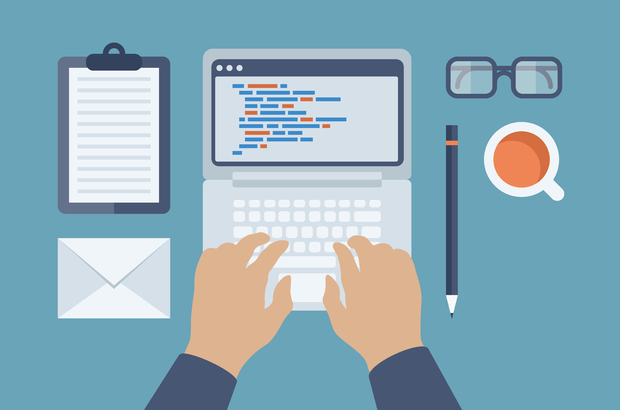
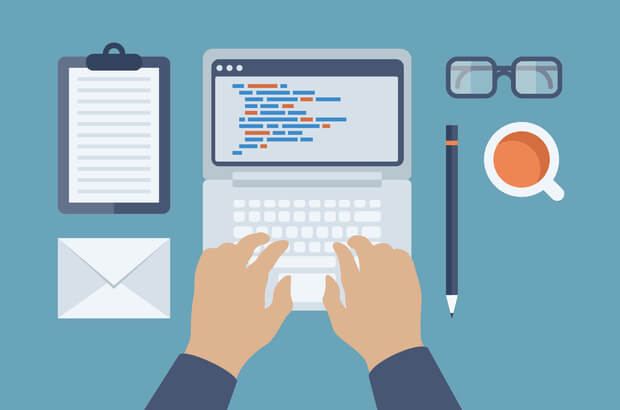
compress img and add angular to optimize code

diff --git a/index.html b/index.html
@@ -1,14 +1,17 @@
 <!DOCTYPE html>
-<html lang="en">
+<html lang="en" ng-app="colaboradores">
 <head>
 	<meta name="viewport" content="initial-scale = 1.0,maximum-scale = 1.0" />
 	<meta charset="UTF-8">
+	 <link rel="icon" href="img/favicon.png" type="image/gif" sizes="16x16"> 
 	<!-- HTML5 shim and Respond.js for IE8 support of HTML5 elements and media queries -->
 	<!-- WARNING: Respond.js doesn't work if you view the page via file:// -->
 	<!--[if lt IE 9]>
 	<script src="https://oss.maxcdn.com/html5shiv/3.7.2/html5shiv.min.js"></script>
 	<script src="https://oss.maxcdn.com/respond/1.4.2/respond.min.js"></script>
 	<![endif]-->
+	<script src="lib/angular-1.5.5/angular.js"></script>
+	<script src="js/app.js"></script>
 	<title>Sim-Network</title>
 </head>
 <body>
@@ -208,87 +211,22 @@
 		</div><!-- /.container -->
 	</section>
 
-	<section class="team">
+	<section class="team" ng-controller="colaboradoresCtrl">
 		<div class="container">
 			<div class="row">
 				<div class="col-xs-12 title">
-					<h2>Colaboradores <span>//Nossos integrantes</span></h2>
+					<h2>{{app}} <span>//Nossos integrantes</span></h2>
 				</div>
 			</div>
 			<div class="row">
-				<div class="col-sm-6 col-md-3">
-				    <div class="thumbnail">
-				      <img src="img/Logo Sim Network 2.1.png" alt="...">
-				      <div class="caption">
-				        <h3 class="text-center">Thumbnail label</h3>
-				        <p class="text-center">Breve descrição sobre cada membro</p>
+				<div class="col-sm-6 col-md-3" ng-repeat="colaborador in colaboradores">
+					<div class="thumbnail">
+						<img ng-src="img/{{colaborador.imagem}}" title="foto de {{colaborador.nome}}" alt="foto de {{colaborador.nome}}" />
+						<div class="caption">
+							<h3 class="text-center">{{colaborador.nome}}</h3>
+							<p class="text-center">{{colaborador.descricao}}</p>
 						</div>
-				    </div>
-				</div>
-				<div class="col-sm-6 col-md-3">
-				    <div class="thumbnail">
-				      <img src="img/Logo Sim Network 2.1.png" alt="...">
-				      <div class="caption">
-				        <h3 class="text-center">Thumbnail label</h3>
-				        <p class="text-center">Breve descrição sobre cada membro</p>
-						</div>
-				    </div>
-				</div>
-				<div class="col-sm-6 col-md-3">
-				    <div class="thumbnail">
-				      <img src="img/Logo Sim Network 2.1.png" alt="...">
-				      <div class="caption">
-				        <h3 class="text-center">Thumbnail label</h3>
-				        <p class="text-center">Breve descrição sobre cada membro</p>
-						</div>
-				    </div>
-				</div>
-				<div class="col-sm-6 col-md-3">
-				    <div class="thumbnail">
-				      <img src="img/Logo Sim Network 2.1.png" alt="...">
-				      <div class="caption">
-				        <h3 class="text-center">Thumbnail label</h3>
-				        <p class="text-center">Breve descrição sobre cada membro</p>
-						</div>
-				    </div>
-				</div>
-			</div>
-			<div class="row">
-				<div class="col-sm-6 col-md-3">
-				    <div class="thumbnail">
-				      <img src="img/Logo Sim Network 2.1.png" alt="...">
-				      <div class="caption">
-				        <h3 class="text-center">Thumbnail label</h3>
-				        <p class="text-center">Breve descrição sobre cada membro</p>
-						</div>
-				    </div>
-				</div>
-				<div class="col-sm-6 col-md-3">
-				    <div class="thumbnail">
-				      <img src="img/Logo Sim Network 2.1.png" alt="...">
-				      <div class="caption">
-				        <h3 class="text-center">Thumbnail label</h3>
-				        <p class="text-center">Breve descrição sobre cada membro</p>
-						</div>
-				    </div>
-				</div>
-				<div class="col-sm-6 col-md-3">
-				    <div class="thumbnail">
-				      <img src="img/Logo Sim Network 2.1.png" alt="...">
-				      <div class="caption">
-				        <h3 class="text-center">Thumbnail label</h3>
-				        <p class="text-center">Breve descrição sobre cada membro</p>
-						</div>
-				    </div>
-				</div>
-				<div class="col-sm-6 col-md-3">
-				    <div class="thumbnail">
-				      <img src="img/Logo Sim Network 2.1.png" alt="...">
-				      <div class="caption">
-				        <h3 class="text-center">Thumbnail label</h3>
-				        <p class="text-center">Breve descrição sobre cada membro</p>
-						</div>
-				    </div>
+					</div>
 				</div>
 			</div>
 		</div>

diff --git a/js/app.js b/js/app.js
@@ -1,0 +1,11 @@
+var app = angular.module("colaboradores", []);
+
+        app.controller("colaboradoresCtrl", function($scope){
+           $scope.app = "Colaboradores";
+			$scope.colaboradores = [
+				{nome: "Pedro", descricao: "breve texto sobre o colaborador", imagem: 'Logo Sim Network 2.1.png' },
+				{nome: "Pedro", descricao: "breve texto sobre o colaborador", imagem: 'Logo Sim Network 2.1.png' },
+				{nome: "Pedro", descricao: "breve texto sobre o colaborador", imagem: 'Logo Sim Network 2.1.png' },
+				{nome: "Pedro", descricao: "breve texto sobre o colaborador", imagem: 'Logo Sim Network 2.1.png' }
+			];
+        });
